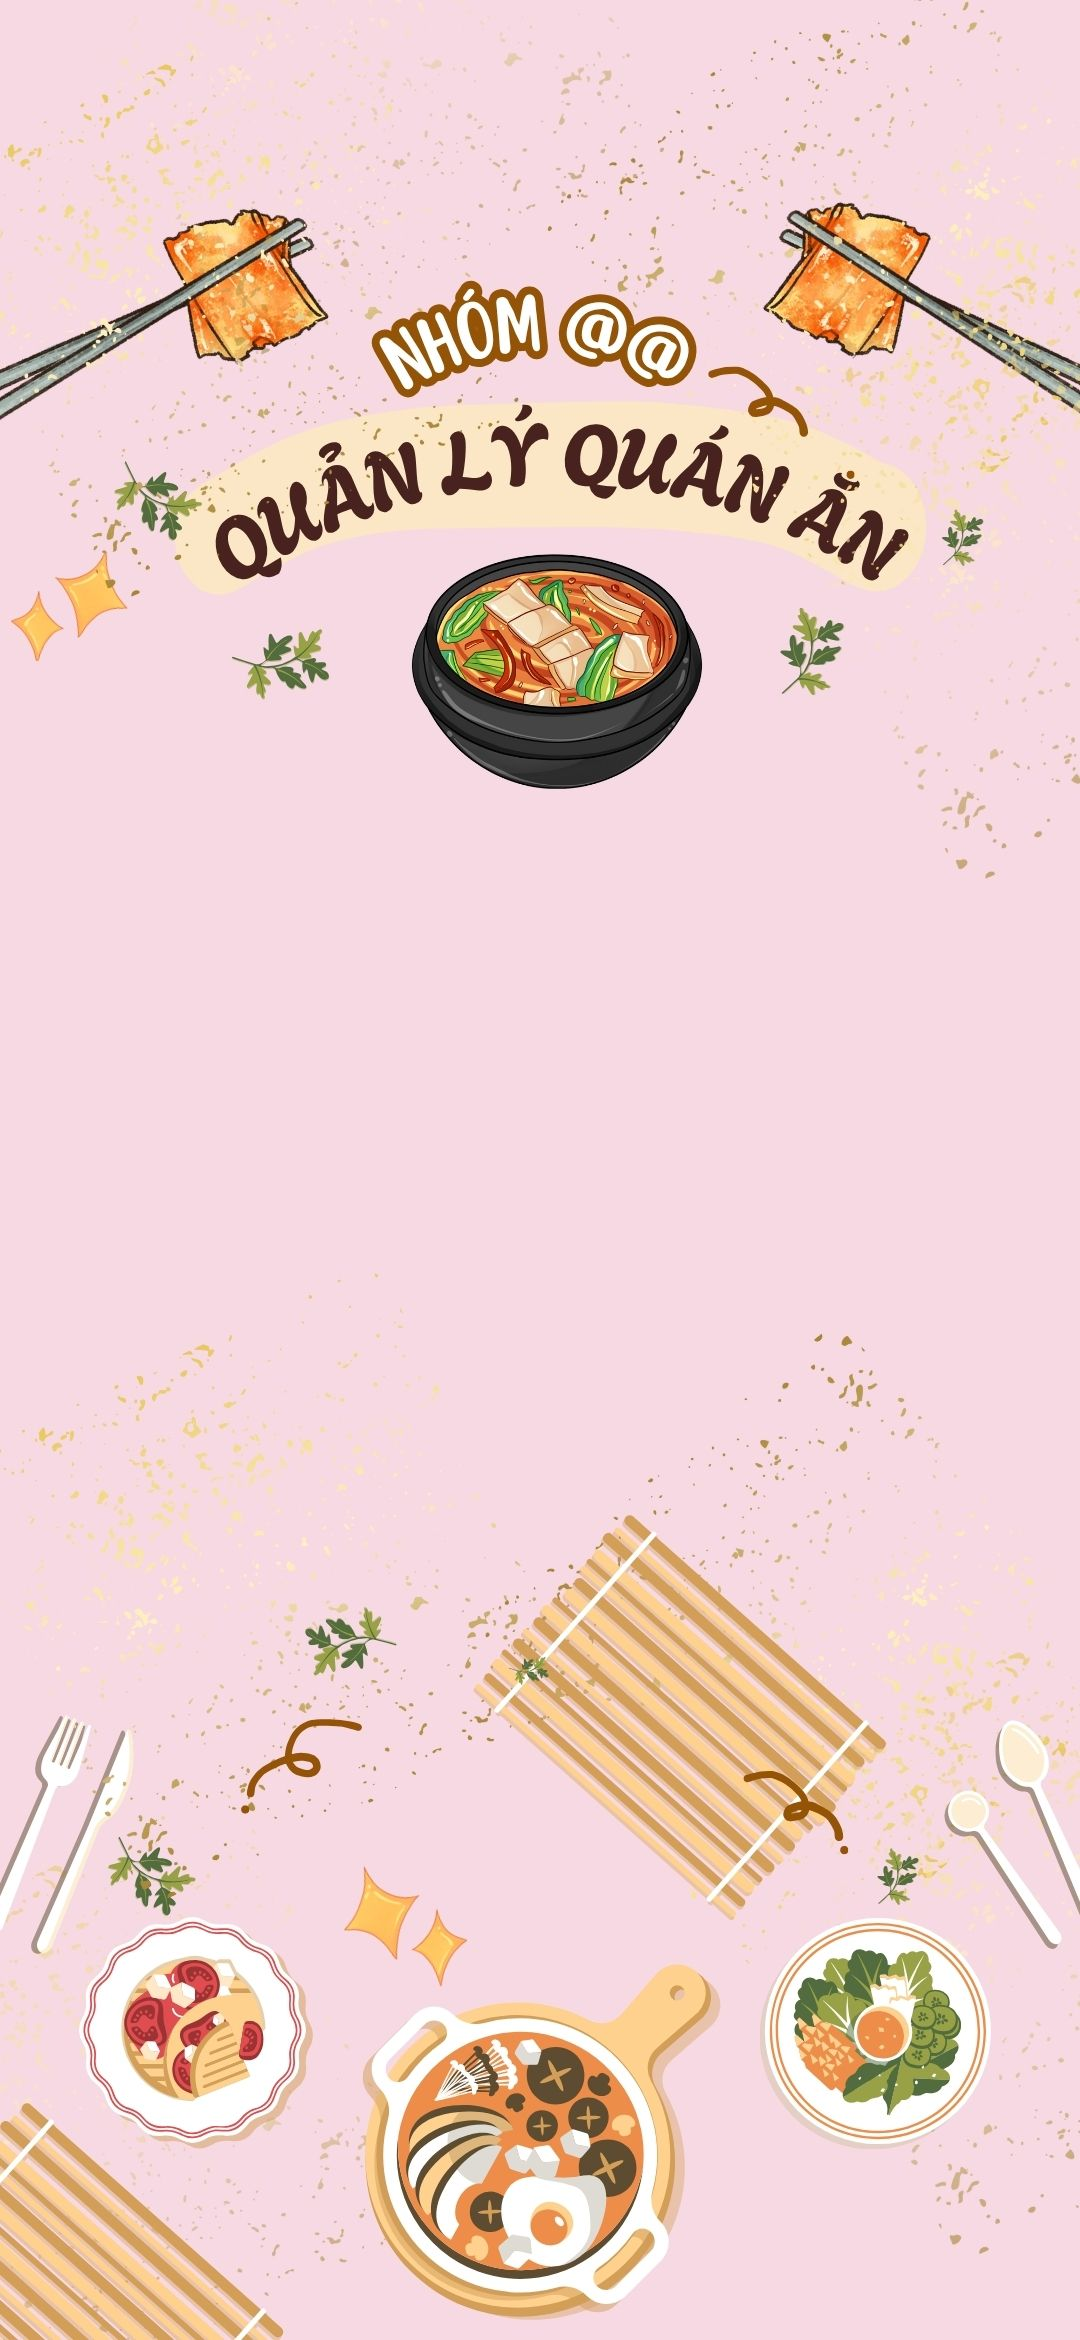
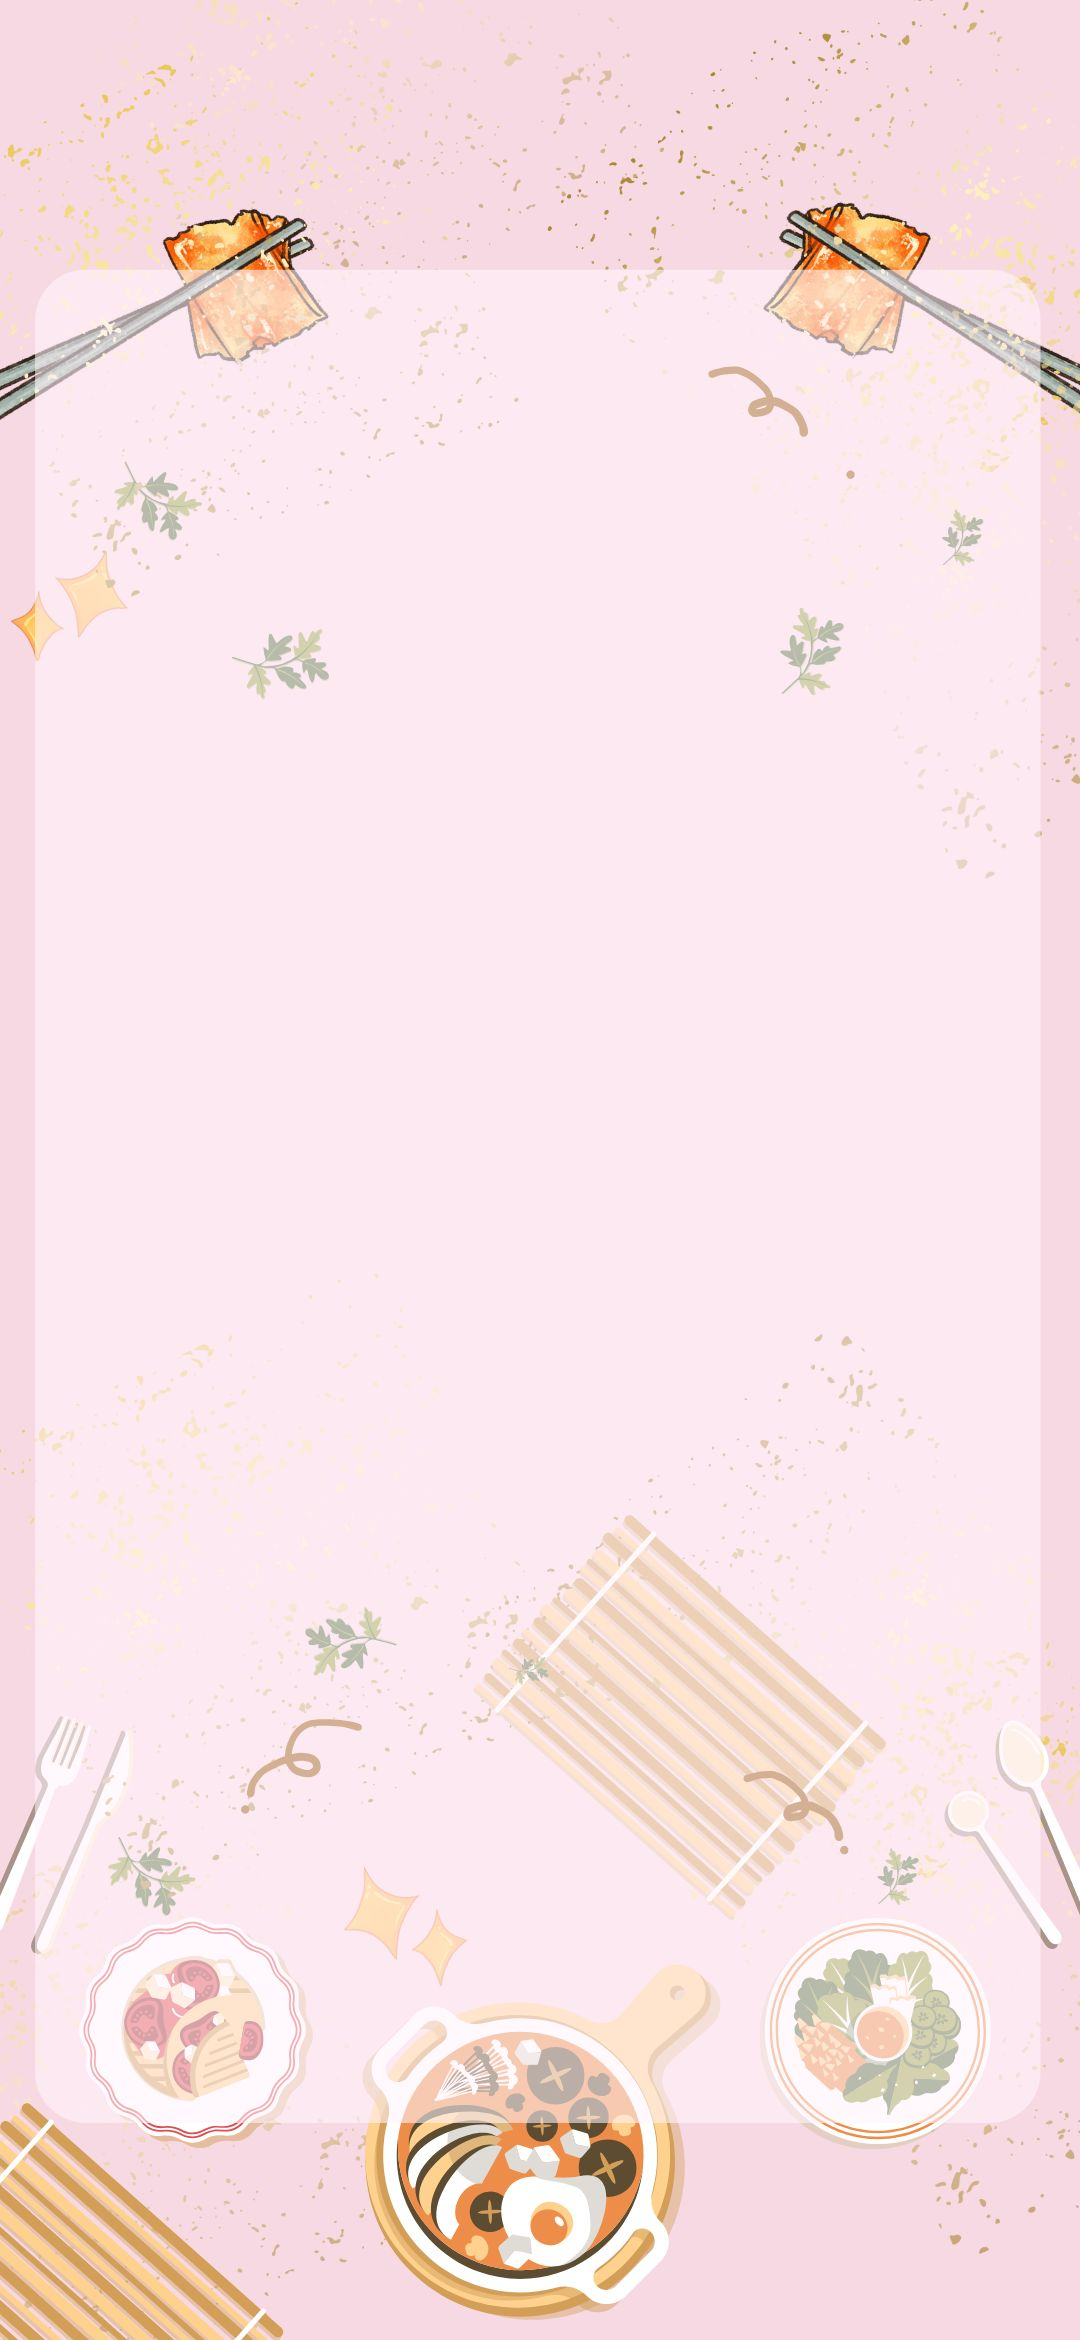
Bo sung them anh Dang Nhap Dang Ky

diff --git a/ql_quanan/lib/views/auth/DangKy.dart b/ql_quanan/lib/views/auth/DangKy.dart
@@ -162,7 +162,7 @@ class _DangKyState extends State<DangKy> {
                     style: TextStyle(
                       fontSize: 28,
                       fontWeight: FontWeight.bold,
-                      color: Colors.white,
+                      color: Color(0xFFFF6790),
                     ),
                   ),
                   SizedBox(height: 30),
@@ -272,7 +272,7 @@ class _DangKyState extends State<DangKy> {
                             ),
                             Text(
                               'Khách hàng',
-                              style: TextStyle(color: Colors.white),
+                              style: TextStyle(color: Color(0xFFFF6790)),
                             ),
                             SizedBox(width: 20),
                             Radio<UserType>(
@@ -287,7 +287,7 @@ class _DangKyState extends State<DangKy> {
                             ),
                             Text(
                               'Nhân viên',
-                              style: TextStyle(color: Colors.white),
+                              style: TextStyle(color: Color(0xFFFF6790)),
                             ),
                           ],
                         ),
@@ -351,7 +351,7 @@ class _DangKyState extends State<DangKy> {
                     },
                     child: Text(
                       'Đã có tài khoản? Đăng nhập',
-                      style: TextStyle(color: Colors.white),
+                      style: TextStyle(color: Color(0xFFFF6790)),
                     ),
                   ),
                 ],

diff --git a/ql_quanan/lib/views/TrangChu.dart b/ql_quanan/lib/views/TrangChu.dart
@@ -131,9 +131,9 @@ class _TrangChuState extends State<TrangChu> {
                       // Dựa vào maVaiTro để chọn ảnh mặc định hoặc load ảnh của user
                       backgroundImage: AssetImage(
                         user?.maVaiTro == 'QL'
-                            ? 'assets/HinhAnh/NhanVien/default_employee.png'
+                            ? 'assets/HinhAnh/KhachHang/hinh1.jpg'
                             : user?.maVaiTro == 'NV'
-                            ? 'assets/HinhAnh/NhanVien/default_employee.png'
+                            ? 'assets/HinhAnh/KhachHang/hinh1.jpg'
                             : 'assets/HinhAnh/KhachHang/hinh1.jpg', // Default cho khách hàng
                       ),
                     ),

diff --git a/ql_quanan/lib/views/auth/DangNhap.dart b/ql_quanan/lib/views/auth/DangNhap.dart
@@ -86,7 +86,7 @@ class _DangNhapState extends State<DangNhap> {
           // Background Image
           Positioned.fill(
             child: Image.asset(
-              'assets/HinhAnh/NenDangKy.jpg', // Ảnh nền
+              'assets/HinhAnh/NenDangNhap.jpg', // Ảnh nền
               fit: BoxFit.cover,
             ),
           ),
